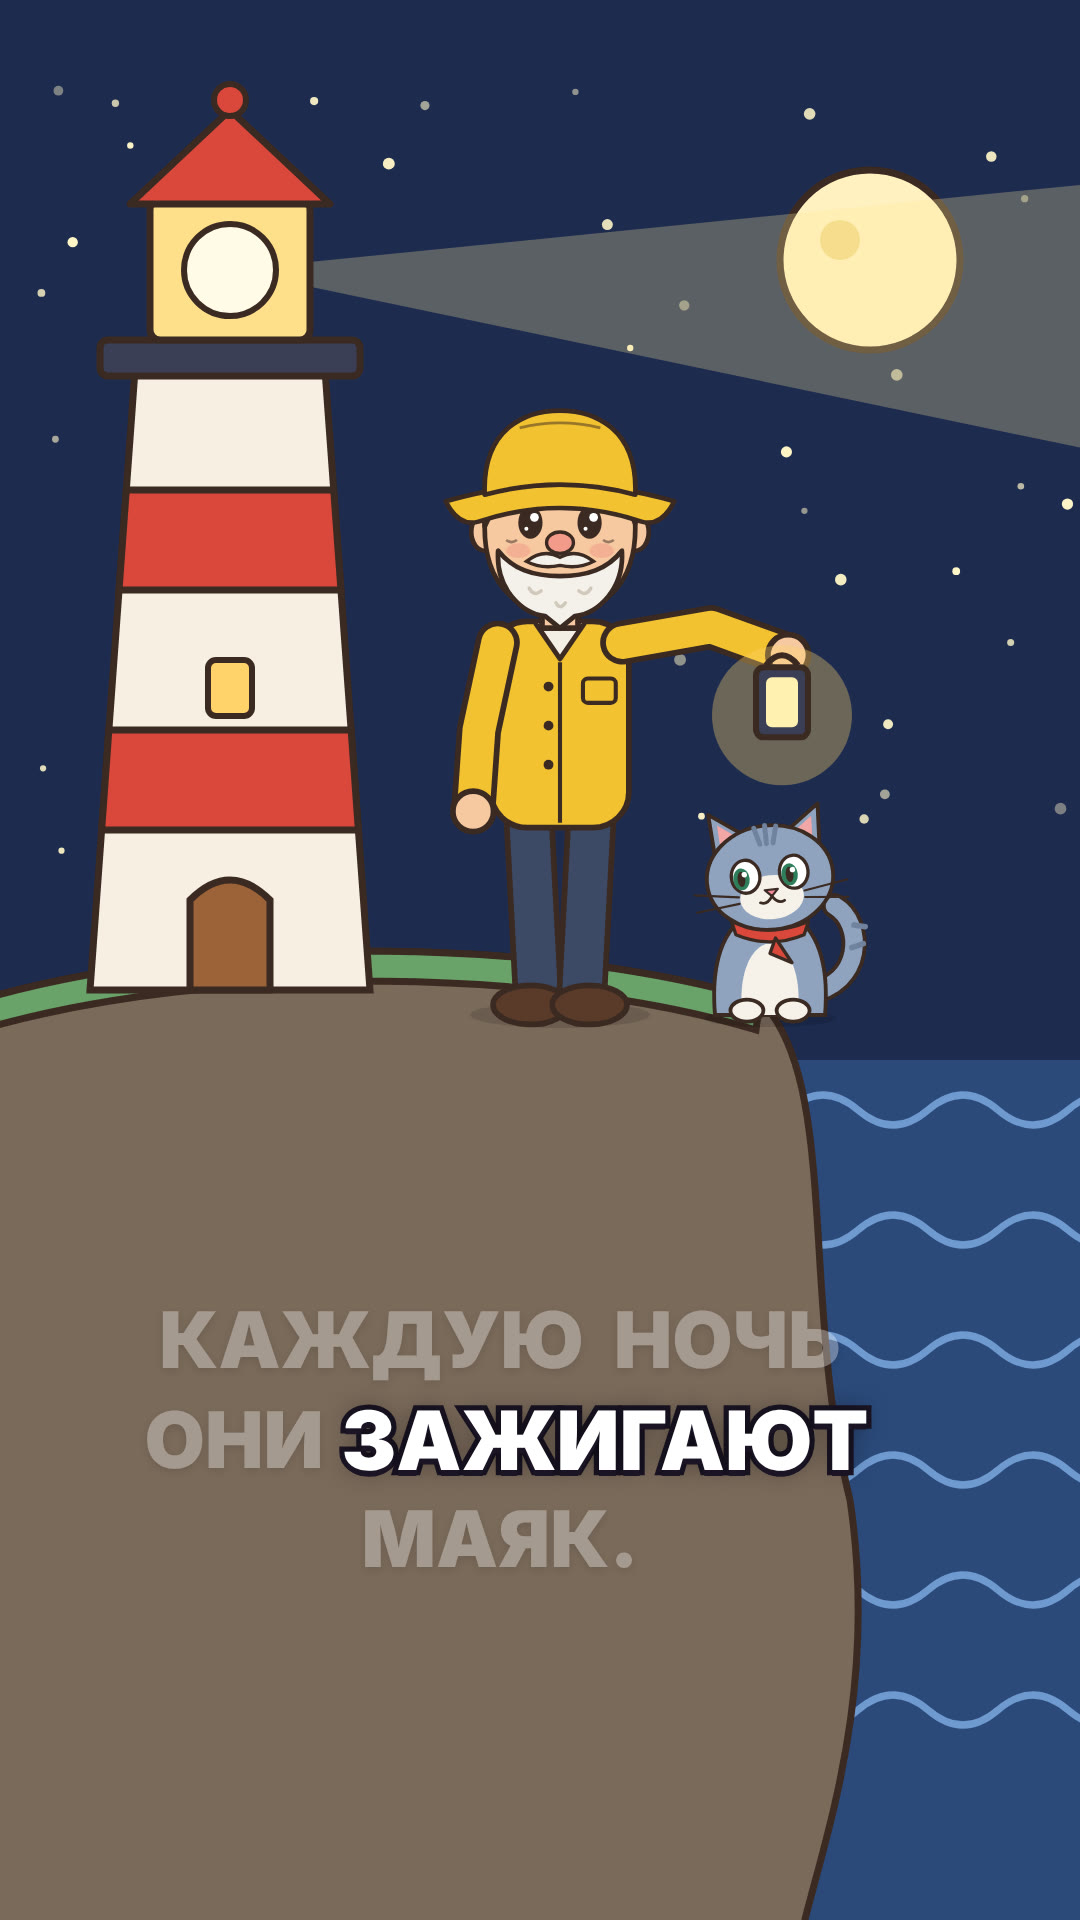
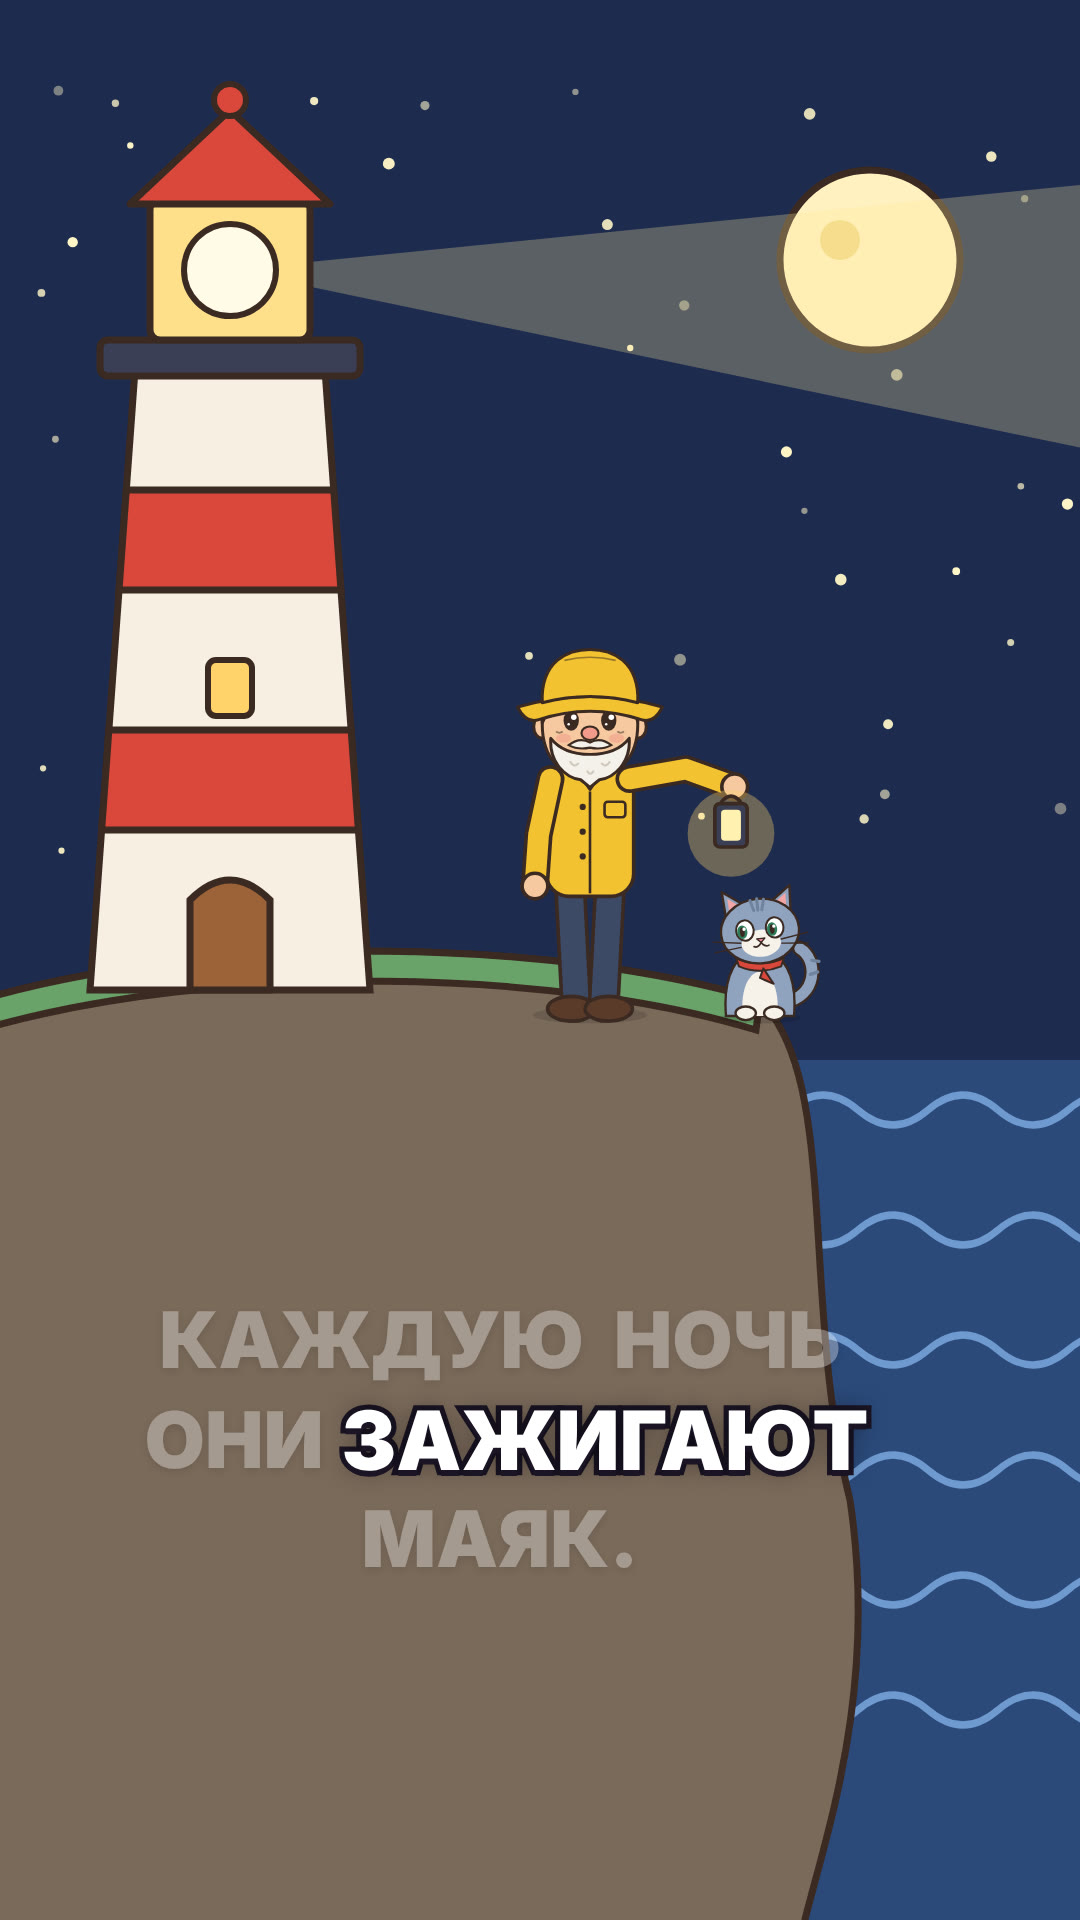
Keeper: lower head, smaller scale next to the lighthouse
Claude-Session: https://claude.ai/code/session_01FMPcmzreS5vfUHK36F77hk

Changed region(s): [[0.3972, 0.1875, 0.825, 0.5312]]

diff --git a/videos/dvazhdy/src/series/Keeper.tsx b/videos/dvazhdy/src/series/Keeper.tsx
@@ -60,7 +60,7 @@ export const Cat: React.FC<{x: number; y: number; s?: number; t: number; look?: 
 };
 
 const Keeper: React.FC<{x: number; y: number; s?: number; armR?: [number, number]; armL?: [number, number]; face?: 'smile' | 'neutral' | 'think' | 'shock'}> = ({x, y, s = 1, armR, armL, face = 'smile'}) => (
-	<Char x={x} y={y} s={s} headS={0.82} bodyS={1.14} hair="old" beard nose hat="souwester" hatColor={COAT} jacket={COAT} pants="#3d4a66" face={face} armR={armR} armL={armL} />
+	<Char x={x} y={y} s={s} headS={0.82} bodyS={1.14} headDrop={34} hair="old" beard nose hat="souwester" hatColor={COAT} jacket={COAT} pants="#3d4a66" face={face} armR={armR} armL={armL} />
 );
 
 // ------------------------------------------------------------------ scene 1: inside the lighthouse
@@ -206,15 +206,15 @@ const Outside: React.FC<{t: number}> = ({t}) => (
 		<path d="M -20 1000 C 220 930 560 940 760 1000 C 840 1080 800 1300 850 1500 C 880 1700 820 1850 800 1940 L -20 1940 Z" fill="#7a6a5a" stroke={OL} strokeWidth={OW} />
 		<path d="M -20 1000 C 220 930 560 940 760 1000 L 756 1030 C 560 970 220 960 -20 1030 Z" fill="#6aa36a" stroke={OL} strokeWidth={OW} />
 		<Lighthouse x={230} y={990} t={t} />
-		<Keeper x={560} y={1010} s={0.82} armR={[100, -30]} face="neutral" />
+		<Keeper x={590} y={1012} s={0.52} armR={[100, -30]} face="neutral" />
 		{/* lantern */}
-		<g transform={`translate(782 ${718 + Math.sin(t * 3) * 3})`}>
+		<g transform={`translate(731 ${836 + Math.sin(t * 3) * 3}) scale(0.62)`}>
 			<circle r={70} fill="#ffd36a" opacity={0.35} />
 			<path d="M -16 -50 Q 0 -70 16 -50" fill="none" stroke={OL} strokeWidth={6} />
 			<rect x={-26} y={-48} width={52} height={70} rx={8} fill="#3a3f55" stroke={OL} strokeWidth={6} />
 			<rect x={-16} y={-38} width={32} height={50} rx={6} fill="#fff1b0" />
 		</g>
-		<Cat x={770} y={1015} s={0.55} t={t} look={-1} />
+		<Cat x={760} y={1016} s={0.34} t={t} look={-1} />
 	</>
 );
 

diff --git a/videos/dvazhdy/src/cartoon/parts.tsx b/videos/dvazhdy/src/cartoon/parts.tsx
@@ -195,6 +195,7 @@ export type CharProps = {
 	nose?: boolean;
 	headS?: number; // head size multiplier
 	bodyS?: number; // torso + legs length multiplier
+	headDrop?: number; // move head down toward shoulders
 };
 
 export const Char: React.FC<CharProps> = (p) => {
@@ -230,6 +231,7 @@ export const Char: React.FC<CharProps> = (p) => {
 		nose = false,
 		headS = 1,
 		bodyS = 1,
+		headDrop = 0,
 	} = p;
 	const breathe = Math.sin(t * 2.2 + blinkSeed) * 0.012;
 	const cyc = (t + blinkSeed * 1.7) % 3.4;
@@ -237,7 +239,7 @@ export const Char: React.FC<CharProps> = (p) => {
 	const legLen = (kid ? 80 : 100) * bodyS;
 	const hipY = -legLen * 2 - 10;
 	const shY = hipY - (kid ? 150 : 210) * bodyS;
-	const headY = shY - (kid ? 120 : 140) * headS;
+	const headY = shY - (kid ? 120 : 140) * headS + headDrop;
 	const shoulderX = kid ? 62 : 84;
 	const hairCol = hair === 'old' || hair === 'boss' ? C.gray : C.hair;
 	const skin = C.skin;
